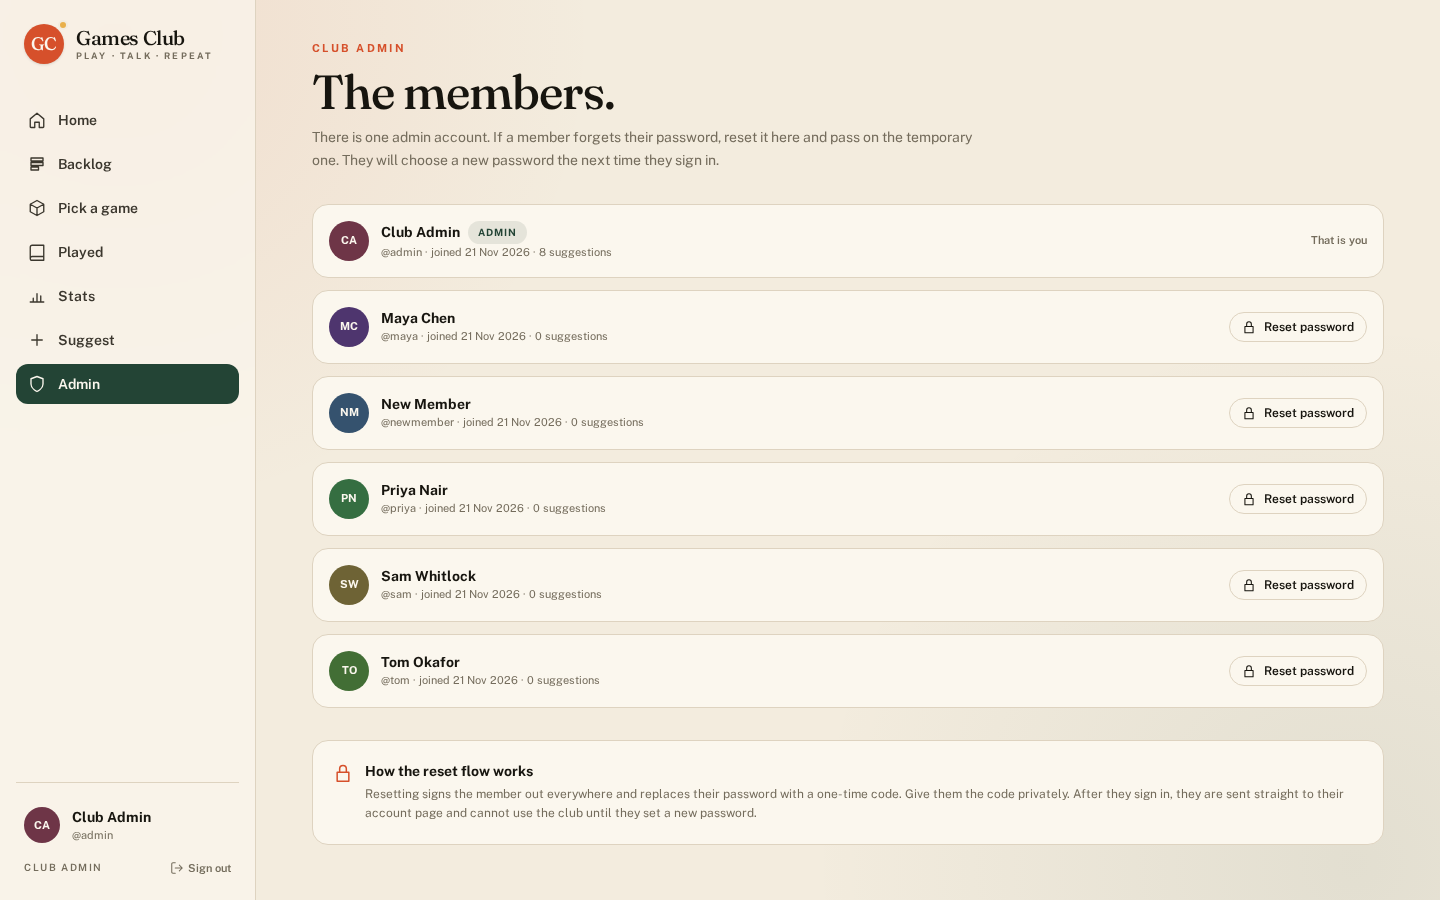
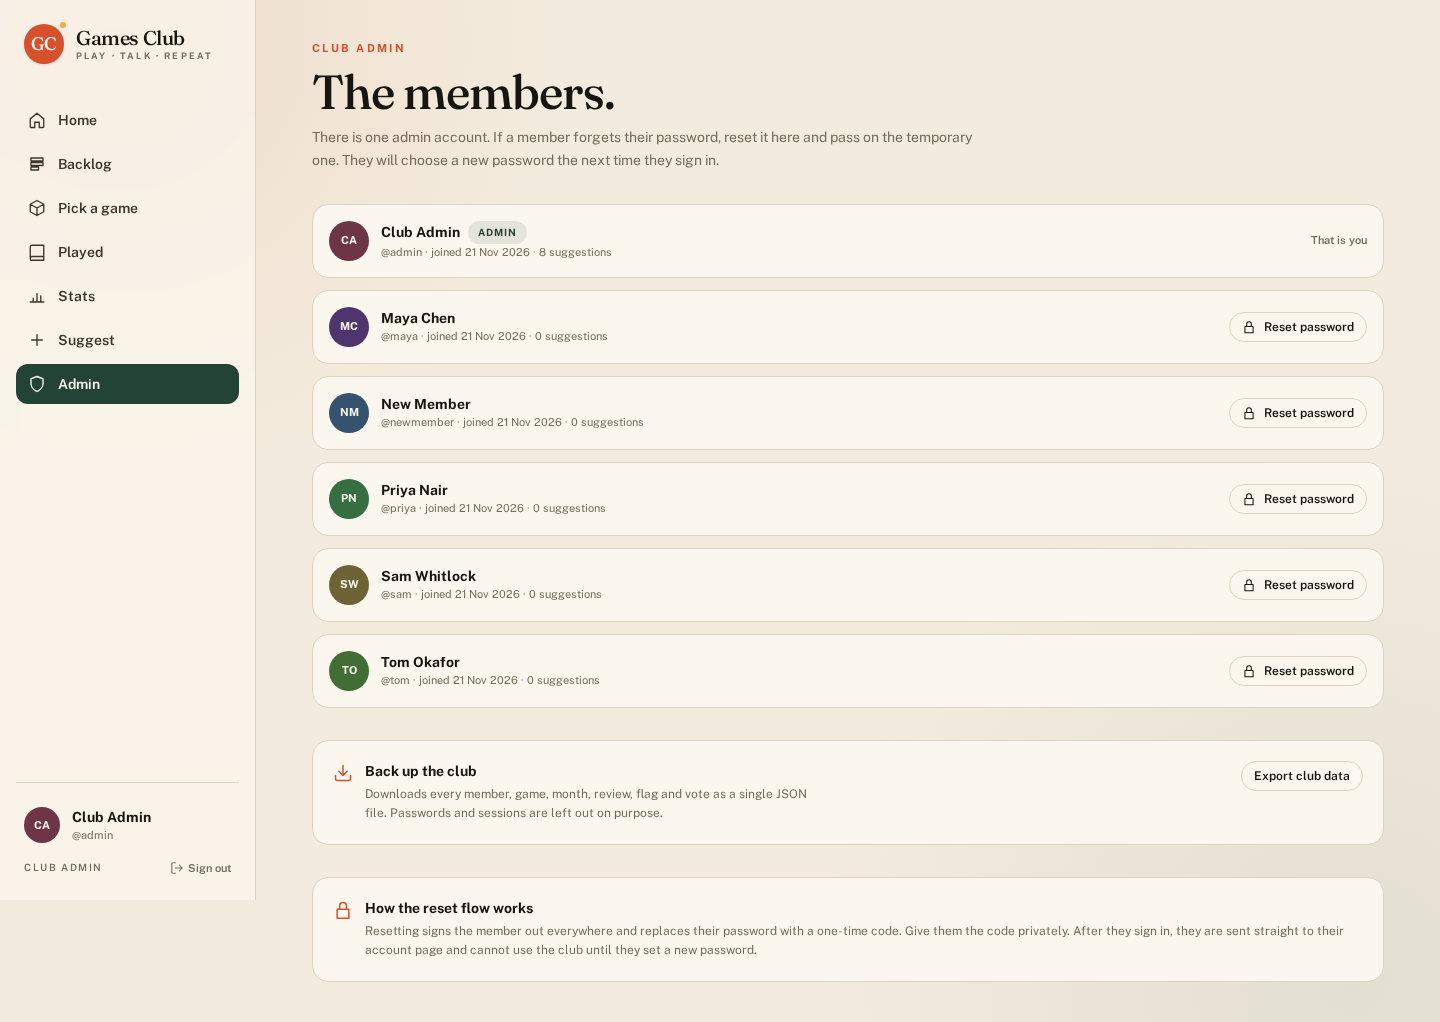
Add admin JSON export of the whole club

diff --git a/src/routeTree.gen.ts b/src/routeTree.gen.ts
@@ -22,6 +22,7 @@ import { Route as AuthedPlayedRouteImport } from './routes/_authed/played'
 import { Route as AuthedStatsRouteImport } from './routes/_authed/stats'
 import { Route as AuthedSuggestRouteImport } from './routes/_authed/suggest'
 import { Route as ApiCoversRouteImport } from './routes/api/covers'
+import { Route as ApiExportRouteImport } from './routes/api/export'
 import { Route as AuthedGameGameIdRouteImport } from './routes/_authed/game.$gameId'
 import { Route as AuthedMonthMonthRouteImport } from './routes/_authed/month.$month'
 import { Route as ApiCoversFilenameRouteImport } from './routes/api/covers.$filename'
@@ -89,6 +90,11 @@ const ApiCoversRoute = ApiCoversRouteImport.update({
   path: '/api/covers',
   getParentRoute: () => rootRouteImport,
 } as any)
+const ApiExportRoute = ApiExportRouteImport.update({
+  id: '/api/export',
+  path: '/api/export',
+  getParentRoute: () => rootRouteImport,
+} as any)
 const AuthedGameGameIdRoute = AuthedGameGameIdRouteImport.update({
   id: '/game/$gameId',
   path: '/game/$gameId',
@@ -117,6 +123,7 @@ export interface FileRoutesByFullPath {
   '/stats': typeof AuthedStatsRoute
   '/suggest': typeof AuthedSuggestRoute
   '/api/covers': typeof ApiCoversRouteWithChildren
+  '/api/export': typeof ApiExportRoute
   '/game/$gameId': typeof AuthedGameGameIdRoute
   '/month/$month': typeof AuthedMonthMonthRoute
   '/api/covers/$filename': typeof ApiCoversFilenameRoute
@@ -133,6 +140,7 @@ export interface FileRoutesByTo {
   '/stats': typeof AuthedStatsRoute
   '/suggest': typeof AuthedSuggestRoute
   '/api/covers': typeof ApiCoversRouteWithChildren
+  '/api/export': typeof ApiExportRoute
   '/game/$gameId': typeof AuthedGameGameIdRoute
   '/month/$month': typeof AuthedMonthMonthRoute
   '/api/covers/$filename': typeof ApiCoversFilenameRoute
@@ -151,6 +159,7 @@ export interface FileRoutesById {
   '/_authed/stats': typeof AuthedStatsRoute
   '/_authed/suggest': typeof AuthedSuggestRoute
   '/api/covers': typeof ApiCoversRouteWithChildren
+  '/api/export': typeof ApiExportRoute
   '/_authed/': typeof AuthedIndexRoute
   '/_authed/game/$gameId': typeof AuthedGameGameIdRoute
   '/_authed/month/$month': typeof AuthedMonthMonthRoute
@@ -170,6 +179,7 @@ export interface FileRouteTypes {
     | '/stats'
     | '/suggest'
     | '/api/covers'
+    | '/api/export'
     | '/game/$gameId'
     | '/month/$month'
     | '/api/covers/$filename'
@@ -186,6 +196,7 @@ export interface FileRouteTypes {
     | '/stats'
     | '/suggest'
     | '/api/covers'
+    | '/api/export'
     | '/game/$gameId'
     | '/month/$month'
     | '/api/covers/$filename'
@@ -203,6 +214,7 @@ export interface FileRouteTypes {
     | '/_authed/stats'
     | '/_authed/suggest'
     | '/api/covers'
+    | '/api/export'
     | '/_authed/'
     | '/_authed/game/$gameId'
     | '/_authed/month/$month'
@@ -213,6 +225,7 @@ export interface RootRouteChildren {
   AuthRoute: typeof AuthRouteWithChildren
   AuthedRoute: typeof AuthedRouteWithChildren
   ApiCoversRoute: typeof ApiCoversRouteWithChildren
+  ApiExportRoute: typeof ApiExportRoute
 }
 
 declare module '@tanstack/react-router' {
@@ -308,6 +321,13 @@ declare module '@tanstack/react-router' {
       preLoaderRoute: typeof ApiCoversRouteImport
       parentRoute: typeof rootRouteImport
     }
+    '/api/export': {
+      id: '/api/export'
+      path: '/api/export'
+      fullPath: '/api/export'
+      preLoaderRoute: typeof ApiExportRouteImport
+      parentRoute: typeof rootRouteImport
+    }
     '/_authed/game/$gameId': {
       id: '/_authed/game/$gameId'
       path: '/game/$gameId'
@@ -389,6 +409,7 @@ const rootRouteChildren: RootRouteChildren = {
   AuthRoute: AuthRouteWithChildren,
   AuthedRoute: AuthedRouteWithChildren,
   ApiCoversRoute: ApiCoversRouteWithChildren,
+  ApiExportRoute: ApiExportRoute,
 }
 export const routeTree = rootRouteImport
   ._addFileChildren(rootRouteChildren)

diff --git a/src/routes/_authed/admin.tsx b/src/routes/_authed/admin.tsx
@@ -43,6 +43,8 @@ function AdminPage() {
         ))}
       </div>
 
+      <ExportCard />
+
       <div className="card mt-8 p-5">
         <div className="flex items-start gap-3">
           <Icon name="lock" className="mt-0.5 h-5 w-5 shrink-0 text-clay" />
@@ -186,5 +188,62 @@ function MemberRow({ member, isSelf }: { member: AdminUser; isSelf: boolean }) {
         </p>
       ) : null}
     </article>
+  );
+}
+
+function ExportCard() {
+  const [pending, setPending] = useState(false);
+  const [error, setError] = useState<string | null>(null);
+
+  async function handleExport() {
+    setPending(true);
+    setError(null);
+    try {
+      const response = await fetch("/api/export");
+      if (!response.ok) throw new Error("Export failed");
+      const blob = await response.blob();
+      const url = URL.createObjectURL(blob);
+      const anchor = document.createElement("a");
+      anchor.href = url;
+      anchor.download = "games-club-export.json";
+      document.body.append(anchor);
+      anchor.click();
+      anchor.remove();
+      URL.revokeObjectURL(url);
+    } catch {
+      setError("Could not export the club data.");
+    } finally {
+      setPending(false);
+    }
+  }
+
+  return (
+    <div className="card mt-8 p-5">
+      <div className="flex flex-wrap items-start justify-between gap-3">
+        <div className="flex items-start gap-3">
+          <Icon name="download" className="mt-0.5 h-5 w-5 shrink-0 text-clay" />
+          <div>
+            <h2 className="text-sm font-bold text-ink">Back up the club</h2>
+            <p className="mt-1 max-w-md text-xs leading-relaxed text-muted">
+              Downloads every member, game, month, review, flag and vote as a
+              single JSON file. Passwords and sessions are left out on purpose.
+            </p>
+          </div>
+        </div>
+        <button
+          type="button"
+          onClick={handleExport}
+          disabled={pending}
+          className="btn-ghost btn-sm"
+        >
+          {pending ? "Preparing…" : "Export club data"}
+        </button>
+      </div>
+      {error ? (
+        <p role="alert" className="mt-3 text-xs font-semibold text-clay">
+          {error}
+        </p>
+      ) : null}
+    </div>
   );
 }

diff --git a/src/routes/api/export.tsx b/src/routes/api/export.tsx
@@ -1,0 +1,49 @@
+import { createFileRoute } from "@tanstack/react-router";
+import { getDb } from "#/db";
+import { requireAdmin } from "#/server/session";
+
+export const Route = createFileRoute("/api/export")({
+  server: {
+    handlers: {
+      GET: async () => {
+        try {
+          requireAdmin();
+        } catch {
+          return new Response("Only the club admin can export data.", {
+            status: 403,
+          });
+        }
+
+        const db = getDb();
+        // Everything except sessions and password hashes.
+        const data = {
+          exportedAt: new Date().toISOString(),
+          users: db
+            .query(
+              `SELECT id, username, name, is_admin, must_change_password, created_at
+               FROM users ORDER BY id`,
+            )
+            .all(),
+          games: db.query("SELECT * FROM games ORDER BY id").all(),
+          assignments: db
+            .query("SELECT * FROM assignments ORDER BY month")
+            .all(),
+          reviews: db.query("SELECT * FROM reviews ORDER BY id").all(),
+          gameFlags: db
+            .query("SELECT * FROM game_flags ORDER BY game_id, user_id")
+            .all(),
+          votes: db
+            .query("SELECT * FROM votes ORDER BY game_id, user_id")
+            .all(),
+        };
+
+        return new Response(JSON.stringify(data, null, 2), {
+          headers: {
+            "Content-Type": "application/json",
+            "Content-Disposition": 'attachment; filename="games-club-export.json"',
+          },
+        });
+      },
+    },
+  },
+});

diff --git a/e2e/club.spec.ts b/e2e/club.spec.ts
@@ -226,3 +226,36 @@ test("the stats page summarises the club", async ({ page }) => {
   // A member who has reviewed in the seed data.
   await expect(page.getByText("Maya Chen", { exact: true })).toBeVisible();
 });
+
+test("an admin can export the club data as JSON, a member cannot", async ({
+  page,
+}) => {
+  await login(page, ADMIN_USERNAME, ADMIN_PASSWORD);
+  await expect(page).toHaveURL(/\/$/);
+
+  // The button on the admin page triggers a real file download.
+  await visit(page, "/admin");
+  const [download] = await Promise.all([
+    page.waitForEvent("download"),
+    page.getByRole("button", { name: "Export club data" }).click(),
+  ]);
+  expect(download.suggestedFilename()).toBe("games-club-export.json");
+
+  // The API response holds the whole club, minus secrets.
+  const origin = new URL(page.url()).origin;
+  const response = await page.request.get(`${origin}/api/export`);
+  expect(response.status()).toBe(200);
+  const data = await response.json();
+  expect(data.users.length).toBeGreaterThan(0);
+  expect(data.games.length).toBeGreaterThan(0);
+  expect(data.assignments.length).toBeGreaterThan(0);
+  for (const user of data.users) {
+    expect(user).not.toHaveProperty("password_hash");
+  }
+
+  // A plain member gets a 403.
+  await signOut(page);
+  await register(page, unique("exporter"), "Export Test", "member-password");
+  const memberResponse = await page.request.get(`${origin}/api/export`);
+  expect(memberResponse.status()).toBe(403);
+});

diff --git a/src/components/icons.tsx b/src/components/icons.tsx
@@ -25,6 +25,7 @@ const PATHS = {
     "M8 21h8M12 17v4M7 4h10v4a5 5 0 0 1-10 0zM7 5H4v2a4 4 0 0 0 4 4M17 5h3v2a4 4 0 0 1-4 4",
   lock: "M5 11h14v11H5zM8 11V7a4 4 0 0 1 8 0v4",
   copy: "M9 9h11v11H9zM5 15H4V4h11v1",
+  download: "M21 15v4a2 2 0 0 1-2 2H5a2 2 0 0 1-2-2v-4M7 10l5 5 5-5M12 15V3",
   refresh:
     "M3 12a9 9 0 0 1 15.5-6.4L21 8M21 3v5h-5M21 12a9 9 0 0 1-15.5 6.4L3 16M3 21v-5h5",
   x: "M18 6 6 18M6 6l12 12",

diff --git a/README.md b/README.md
@@ -34,7 +34,7 @@ Every suggested-but-unscheduled game lives here, with cover art, platform, time 
 
 ### 5. Picking the next game: spin wheel or voting
 
-On the pick page anyone can **vote** for games on the shelf (one vote per member, changeable at will), or spin the **wheel** to let fate choose. Only an admin locks a picked game into a month.
+On the pick page anyone can **vote** for games on the shelf (one vote per member, changeable at will), or spin the **wheel** to let fate choose — optionally weighted by votes and set to skip games played in the last few months. Only an admin locks a picked game into a month.
 
 ![Pick — wheel result](docs/screenshots/05-pick-wheel.png)
 
@@ -64,7 +64,7 @@ Every finished month is listed here with average rating and a taste of the lates
 
 ### 10. A played month: reviews and discussion
 
-Once the month ends, every member can post (or edit) their own review with a 1–5 star rating.
+Once the month ends, every member can post (or edit) their own review: a 1–5 star rating, their thoughts, and optional pros and cons.
 
 ![Played month — reviews](docs/screenshots/10-month-played.png)
 
@@ -77,6 +77,8 @@ The single admin account sees all members, when they joined and how many games t
 ### 12. Admin: password reset (no email)
 
 Locked out? The admin resets a member's password, which signs them out everywhere and shows a **one-time temporary password**. The member signs in with it and is forced to choose a new one before they can do anything else.
+
+The same page has a **Back up the club** card: one click downloads every member, game, month, review, flag and vote as a single JSON file (passwords and sessions are left out).
 
 ![Admin password reset](docs/screenshots/12-admin-reset.png)
 
@@ -171,9 +173,9 @@ All configuration is environment variables (see `.env.example`). There are no re
 ## How a month works
 
 1. **Suggest** — any member adds games to the shelf (with or without box art).
-2. **Pick** — members vote, or someone spins the wheel; an admin assigns the winner to the next open month.
+2. **Pick** — members vote, or someone spins the wheel (can be weighted by votes and set to skip recently played games); an admin assigns the winner to the next open month.
 3. **Play** — the dashboard shows "Now playing" for the current calendar month.
-4. **Review** — when the month ends, the discussion opens and each member posts a 1–5 star review with their thoughts (one per member, editable).
+4. **Review** — when the month ends, the discussion opens and each member posts a 1–5 star review with their thoughts and optional pros/cons (one per member, editable).
 5. **Archive** — finished months move to the archive with their average rating and all reviews.
 
 ## Architecture
